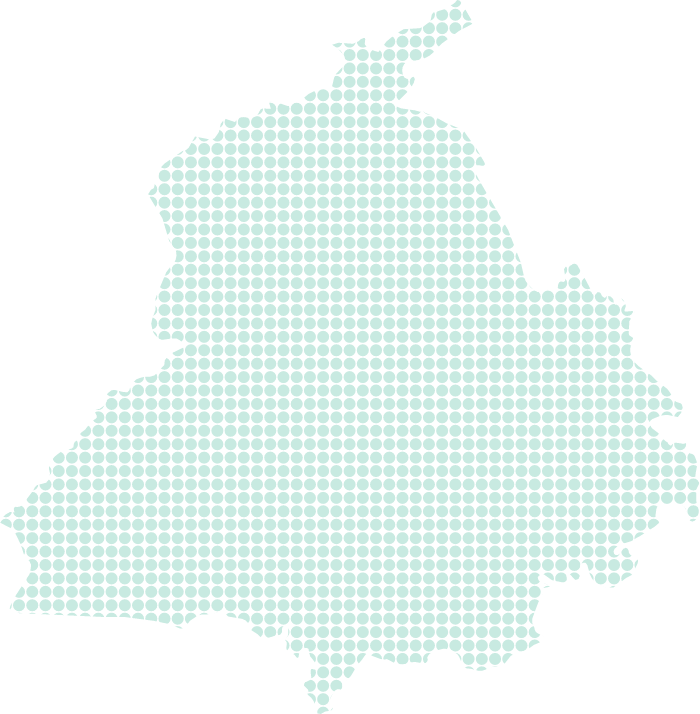
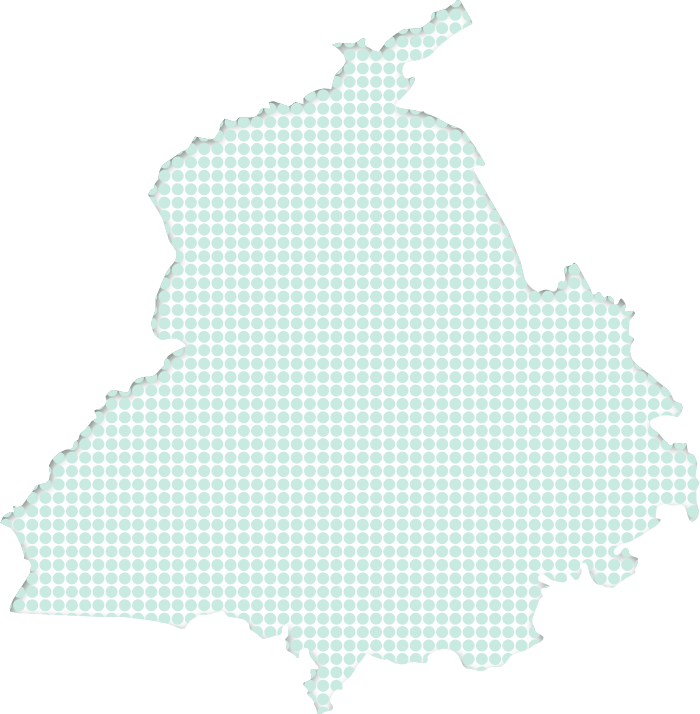
Changes in homepage css and framework page added

diff --git a/sti_app/templates/index.html b/sti_app/templates/index.html
@@ -24,7 +24,7 @@
             <div class="row">
                 <div class="col-lg-12 col-md-12 text-end">
                     <span class="top-skip-bar">
-                        <a href="">Skip to main content</a> |
+                        <a href="#header-menu">Skip to main content</a> |
                         <a href="">Accessibility Options</a> |
                         <a href="">ਪੰਜਾਬੀ</a>&nbsp;&nbsp;<img src="{% static 'images/Polygon 8.png' %}"/>
                     </span>
@@ -54,7 +54,7 @@
     </div>
     <div class="col-lg-12 col-md-12 header-menu">
         <div class="container">
-            <nav class="navbar navbar-expand-lg">
+            <nav id="header-menu" class="navbar navbar-expand-lg">
 
                 <button class="navbar-toggler" type="button" data-bs-toggle="collapse" data-bs-target="#navbarNavAltMarkup" aria-controls="navbarNavAltMarkup" aria-expanded="false" aria-label="Toggle navigation">
                     <span class="navbar-toggler-icon"></span>
@@ -102,7 +102,7 @@
         <!-- STI Home page Data Architecture starts -->
         <div class="col-lg-12 col-md-12 sti-data sti-data-arch all">
             <div class="container">
-                <span>STI Data Architecture Framework</span>
+                <a href="{% url 'framework' %}"><span>STI Data Architecture Framework</span></a>
                  <div class="col-lg-12 col-md-12 data-arch">
                     <span>Data Architecture Framework defines components of Science, Technology & Innovation</span>
                  </div>
@@ -133,8 +133,20 @@
                      <div class="row">
                          <div class="col-lg-2 col-md-2">
                          </div>
-                         <div class="col-lg-8 col-md-8 text-center">
-                            <img src="{% static 'images/punjab_map.png' %}" width="100%" height="100%"/>
+                         <div class="col-lg-8 col-md-8 text-center pb-image">
+                            <img src="{% static 'images/punjab_map.png' %}" width="90%" height="90%"/>
+                             <a href="#"><p class="pb-number1"><span class="pb-nb-text">Institutes of <br/> National Importance </span>&nbsp;&nbsp;&nbsp;&nbsp;&nbsp;&nbsp;&nbsp;&nbsp;&nbsp;
+                                 <img src="{% static 'images/sti_number_1.png' %}" /></p></a>
+                             <a href="#"><p class="pb-number2"><img src="{% static 'images/sti_number_2.png' %}" />&nbsp;&nbsp;&nbsp;&nbsp;&nbsp;&nbsp;&nbsp;&nbsp;&nbsp;
+                                 <span class="pb-nb-text">DSIR Recognized R&D Units</span></p></a>
+                             <a href="#"><p class="pb-number3"><span class="pb-nb-text">Incubators</span>&nbsp;&nbsp;&nbsp;&nbsp;&nbsp;&nbsp;&nbsp;&nbsp;&nbsp;
+                                 <img src="{% static 'images/sti_number_3.png' %}" /></p></a>
+                             <a href="#"><p class="pb-number4"><img src="{% static 'images/sti_number_4.png' %}"/>&nbsp;&nbsp;&nbsp;&nbsp;&nbsp;&nbsp;&nbsp;&nbsp;&nbsp;
+                                 <span class="pb-nb-text">Center of Excellence</span></p></a>
+                             <a href="#"><p class="pb-number5"><span class="pb-nb-text">Universities </span>&nbsp;&nbsp;&nbsp;&nbsp;&nbsp;&nbsp;&nbsp;&nbsp;&nbsp;
+                                 <img src="{% static 'images/sti_number_5.png' %}" /></p></a>
+                             <a href="#"><p class="pb-number6"><img src="{% static 'images/sti_number_6.png' %}"/>&nbsp;&nbsp;&nbsp;
+                                 <span class="pb-nb-text">   R&D Institutes </span></p></a>
                          </div>
                          <div class="col-lg-2 col-md-2">
                          </div>

diff --git a/sti_app/static/css/style.css b/sti_app/static/css/style.css
@@ -77,11 +77,24 @@
     bottom:150px;
 }
 
-.sti-data{
+.sti-data {
     font-size:35px;
     color: #3A3B3B;
     padding-top:20px;
 }
+
+.sti-data a{
+    font-size:35px;
+    color: #3A3B3B;
+    padding-top:20px;
+    text-decoration:none;
+}
+
+.sti-data a:hover{
+    color: #3A3B3B;
+    text-decoration:none;
+}
+
 .data-arch{
     color: #008080;
     font-size:25px;
@@ -98,6 +111,59 @@
 .sti-infra-bg{
     background-image: url("/static/images/Infra_BG.png")
 }
+
+.pb-image{
+    position: relative;
+}
+.pb-number1{
+    position: absolute;
+    top: 335px;
+    left: -195px;
+}
+.pb-number2{
+    position: absolute;
+    top: 315px;
+    left: 402px;
+
+}
+.pb-number3{
+    position: absolute;
+    top: 436px;
+    left: -102px;
+
+}
+.pb-number4{
+    position: absolute;
+    top: 98px;
+    left: -102px;
+
+}
+.pb-number5{
+    position: absolute;
+    top: 175px;
+    left: -15px;
+
+}
+.pb-number6{
+    position: absolute;
+    top: 170px;
+    left: 423px;
+
+}
+.pb-nb-text{
+    color: #6B6B6B;
+}
+
+.pb-number5:hover, .pb-number1:hover  {
+  transform: scale(1.1); /* (150% zoom - Note: if the zoom is too large, it will go outside of the viewport) */
+}
+
+
+
+
+
+
+
 .highlight-bg{
     background-color: #F8F8F8;
     padding-top:40px !important;

diff --git a/sti_app/templates/framework.html b/sti_app/templates/framework.html
@@ -1,0 +1,13 @@
+{% extends 'index.html' %}
+<title>{% block title %}Framework{% endblock %}</title>
+{% load static %}
+{% block content %}
+<div class="container">
+    <div class="col-lg-12 col-md-12">
+        <div>
+            <img src="{% static 'images/STI_framework.png' %}"/>
+        </div>
+    </div>
+</div>
+{% endblock content %}
+

diff --git a/sti_app/views.py b/sti_app/views.py
@@ -4,7 +4,7 @@ from django.http import HttpResponse, response
 from django.shortcuts import render
 
 from sti_app.responses.general_response import (no_success_response,
-                                                   success_response)
+                                                success_response)
 
 from sti_app.models import HeaderMenu, FooterMenu, AboutData, HomeData, Spotlight, Stage, Pillar, Indicator, \
     IndicatorDefinition, HomeFramework, HomePlanPolicies, HomeSlider
@@ -19,8 +19,9 @@ def index(request):
     framework = HomeFramework.objects.all()
     policies = HomePlanPolicies.objects.all()
     return render(request, 'index.html',
-                  context={'header_menu_name': header_menu_name, 'footer_menu_name': footer_menu_name,'slider':slider,
-                           'home_data': home_data, 'spotlight': spotlight, 'framework':framework, 'policies':policies})
+                  context={'header_menu_name': header_menu_name, 'footer_menu_name': footer_menu_name, 'slider': slider,
+                           'home_data': home_data, 'spotlight': spotlight, 'framework': framework,
+                           'policies': policies})
 
 
 def about(request):
@@ -101,6 +102,13 @@ def incubators(request):
     header_menu_name = HeaderMenu.objects.all()
     footer_menu_name = FooterMenu.objects.all()
     return render(request, 'incubators.html',
+                  context={'header_menu_name': header_menu_name, 'footer_menu_name': footer_menu_name})
+
+
+def framework(request):
+    header_menu_name = HeaderMenu.objects.all()
+    footer_menu_name = FooterMenu.objects.all()
+    return render(request, 'framework.html',
                   context={'header_menu_name': header_menu_name, 'footer_menu_name': footer_menu_name})
 
 

diff --git a/sti_app/urls.py b/sti_app/urls.py
@@ -23,5 +23,6 @@ urlpatterns = [
     path(r'portfolio/', views.portfolio, name='portfolio'),
     path(r'researchers/', views.researchers, name='researchers'),
     path(r'technology/', views.technology, name='technology'),
+    path(r'framework/', views.framework, name='framework'),
 
 ]
